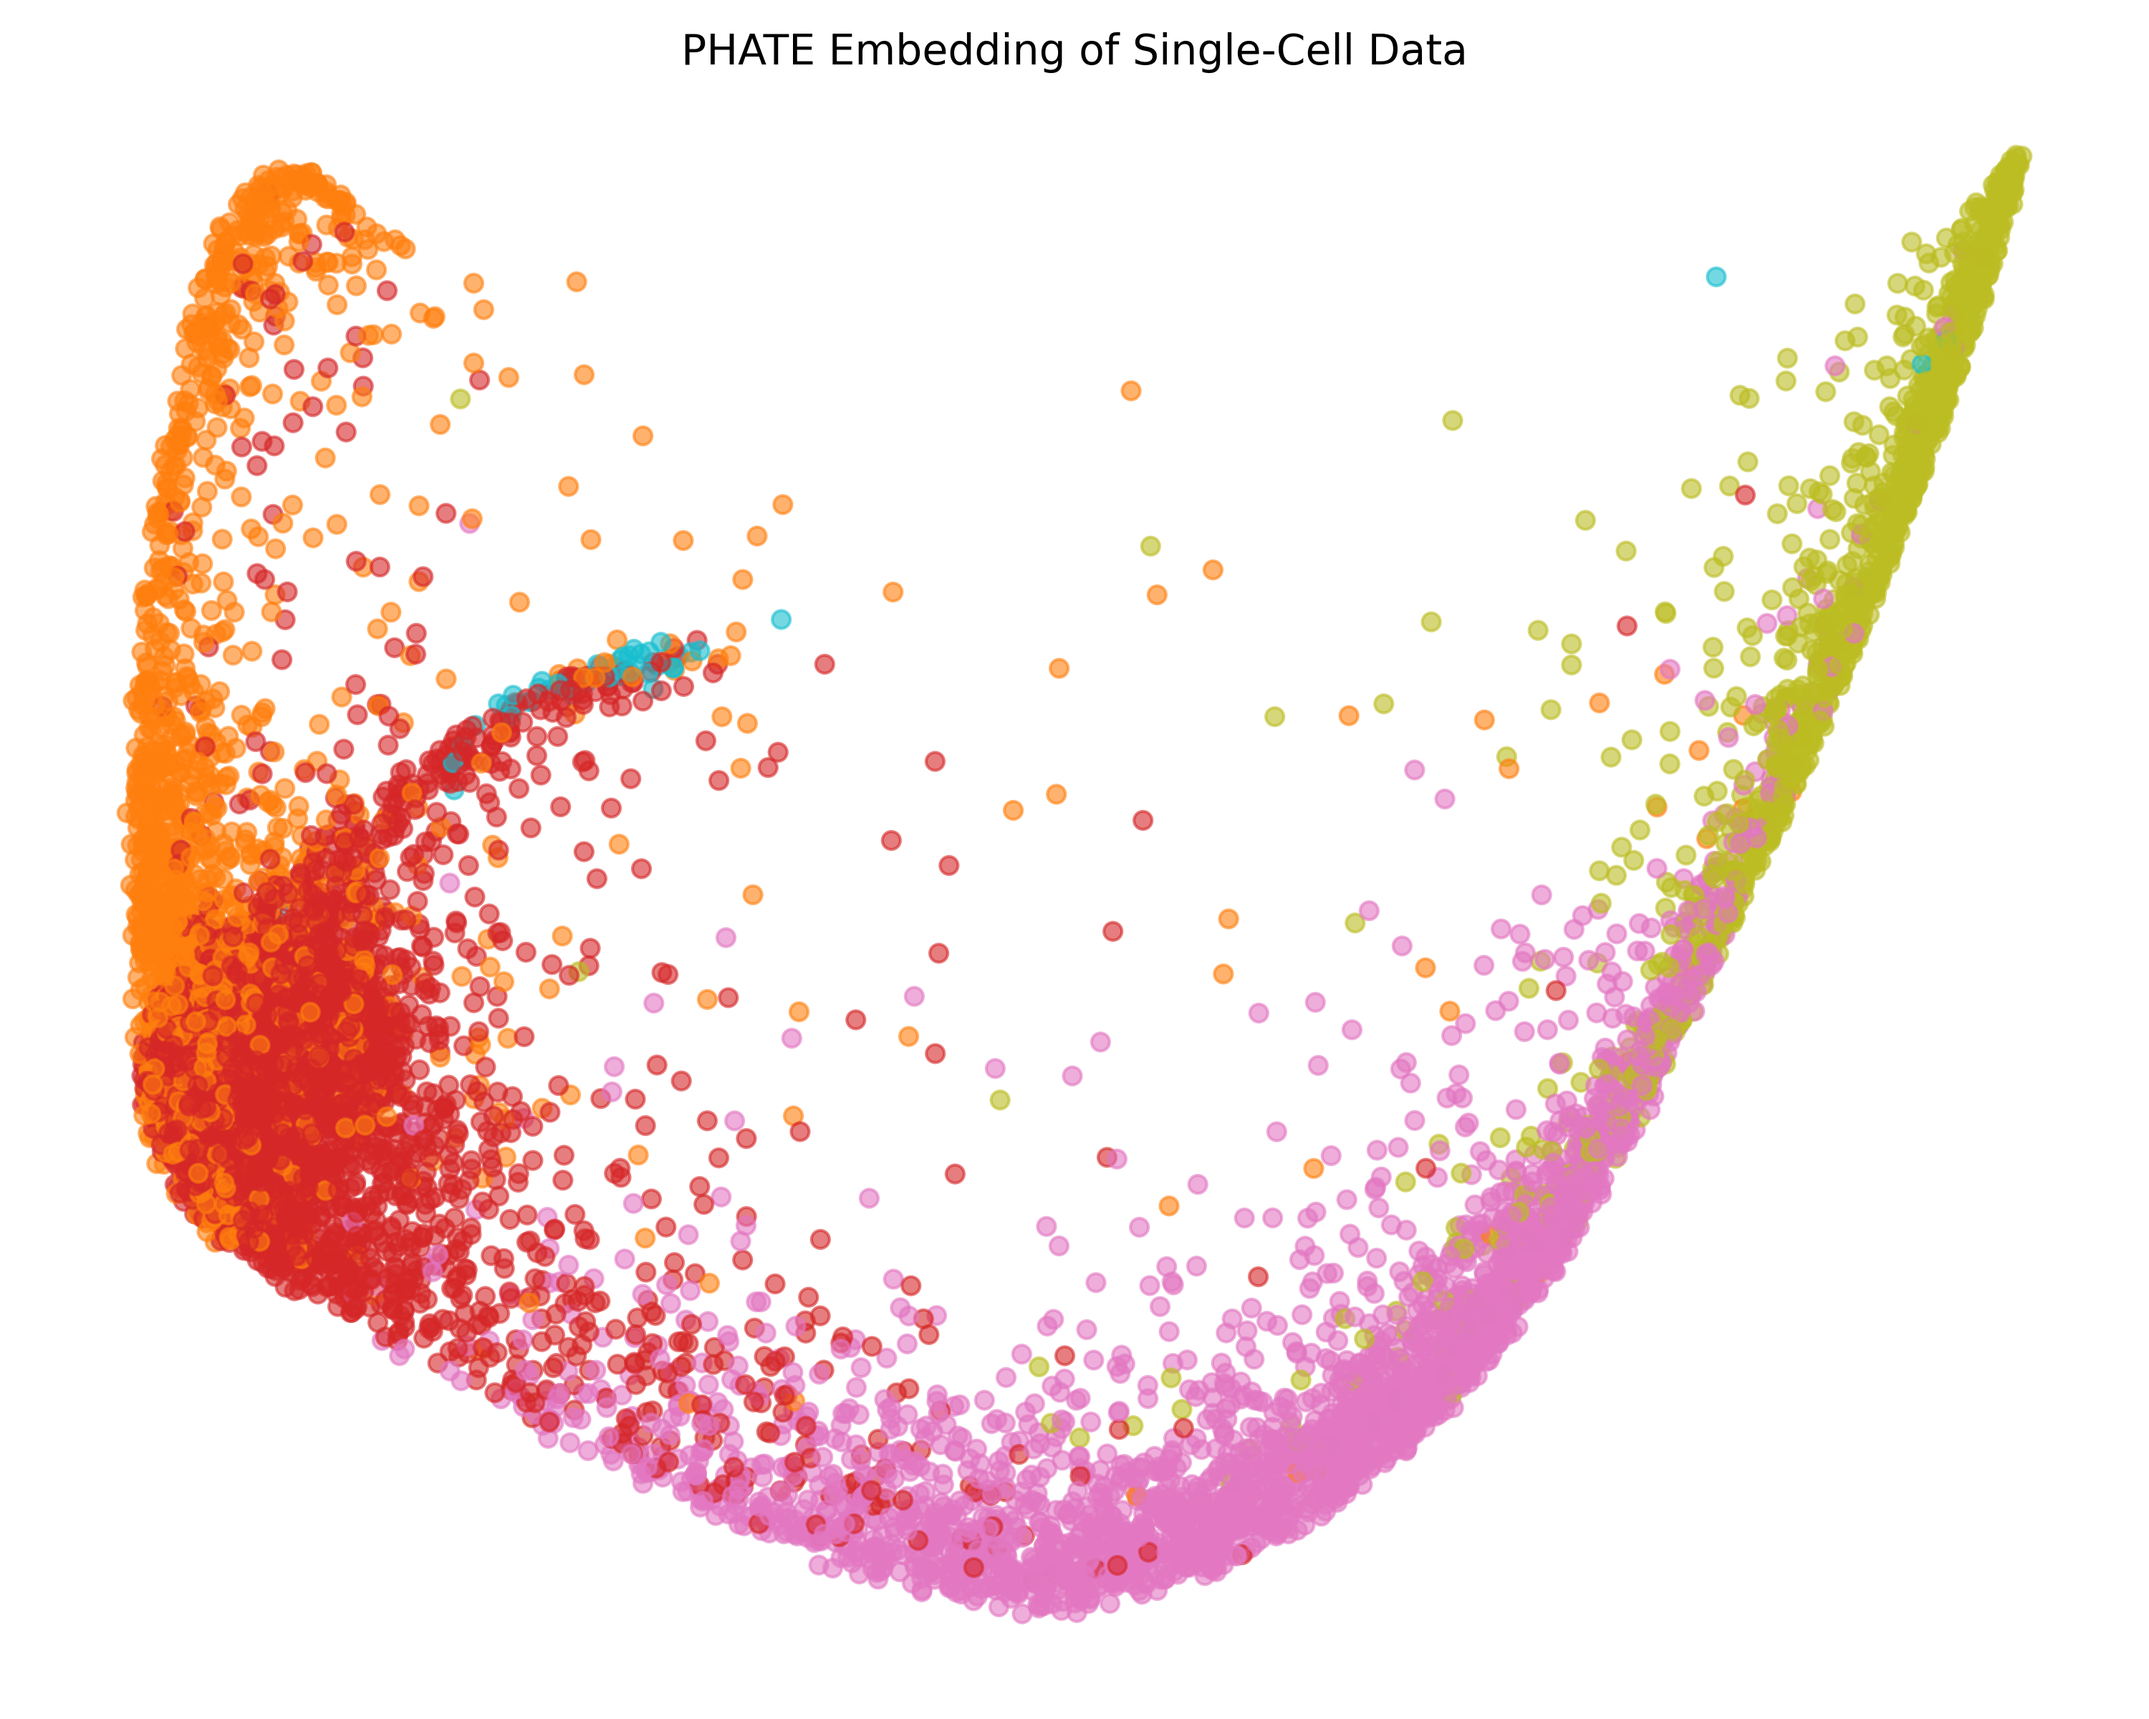
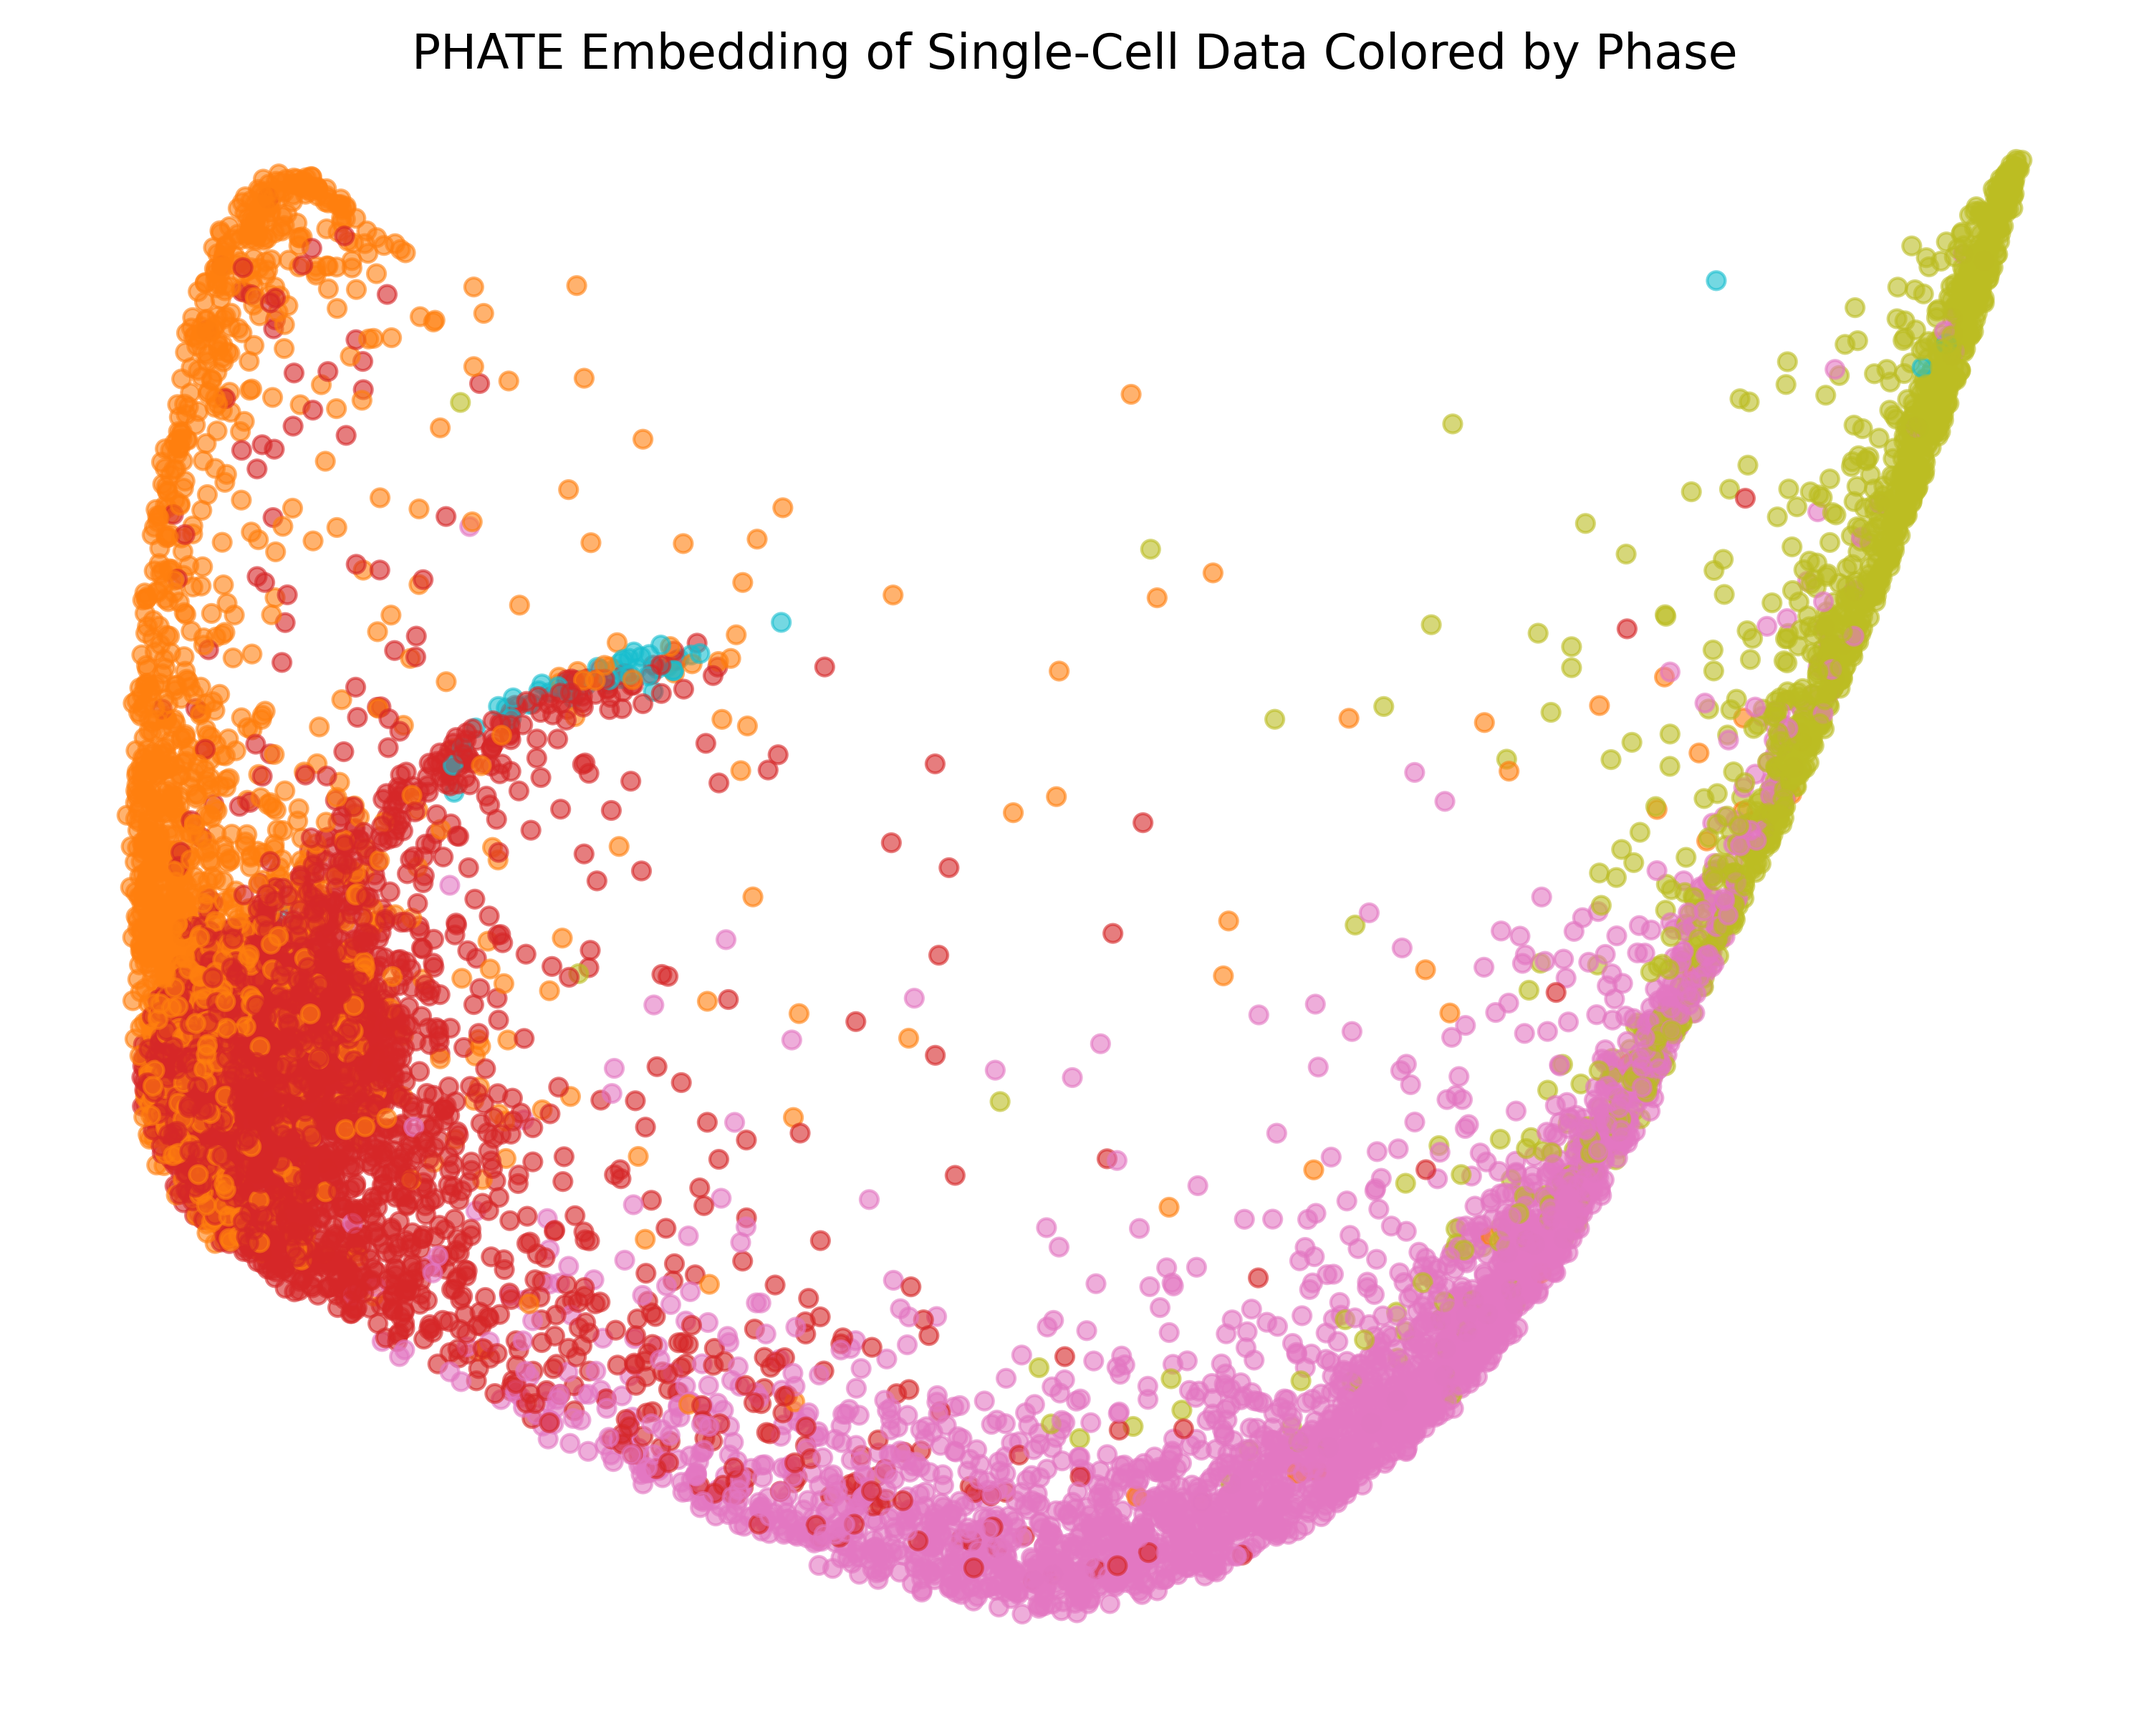
labelled plots

diff --git a/Dimension Reduction/PHATE.py b/Dimension Reduction/PHATE.py
@@ -14,7 +14,7 @@ colors = labels.map(phase_to_color)
 plt.figure(figsize=(10, 8))
 scatter = plt.scatter(x, y, c=colors,
                       cmap='tab10', alpha=0.6)
-plt.title('PHATE Embedding of Single-Cell Data', fontsize = 14)
+plt.title('PHATE Embedding of Single-Cell Data Colored by Phase', fontsize = 16)
 plt.xlabel('PHATE 1')
 plt.ylabel('PHATE 2')
 #plt.colorbar(scatter, ticks=['G0', 'G1', 'S', 'G2', 'M'], label='Phase')
